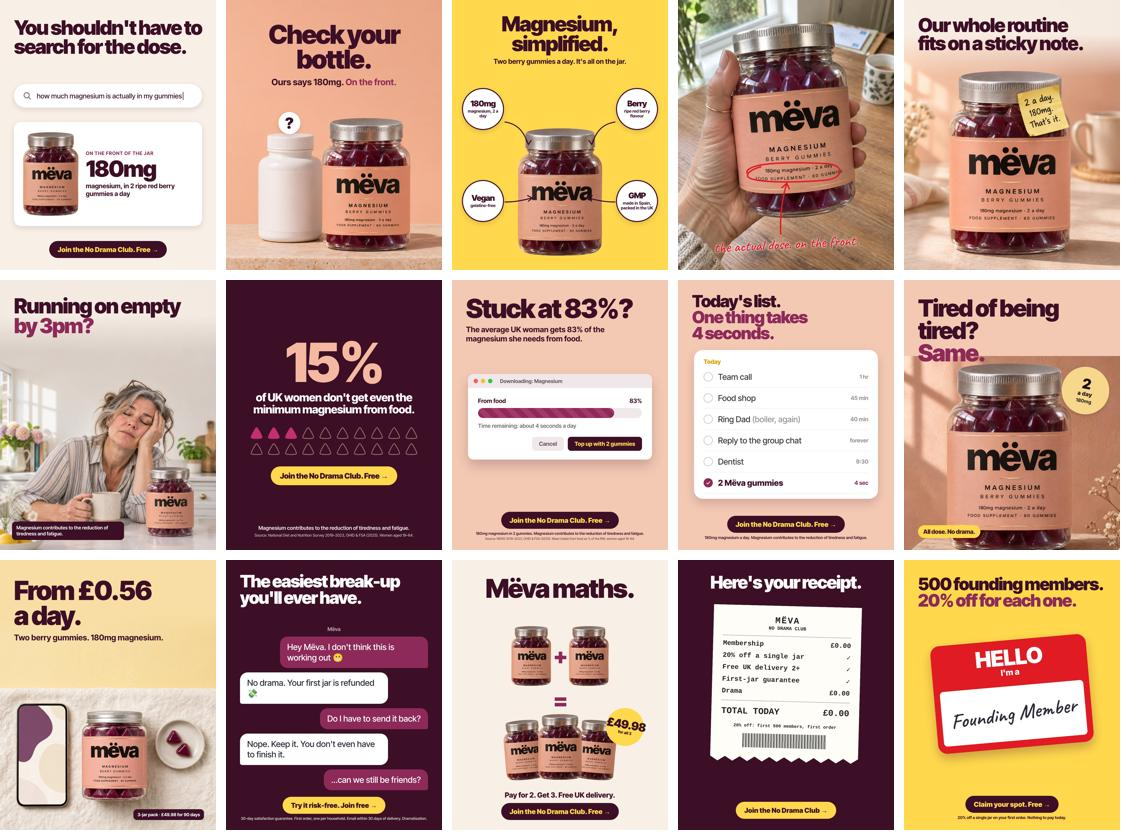
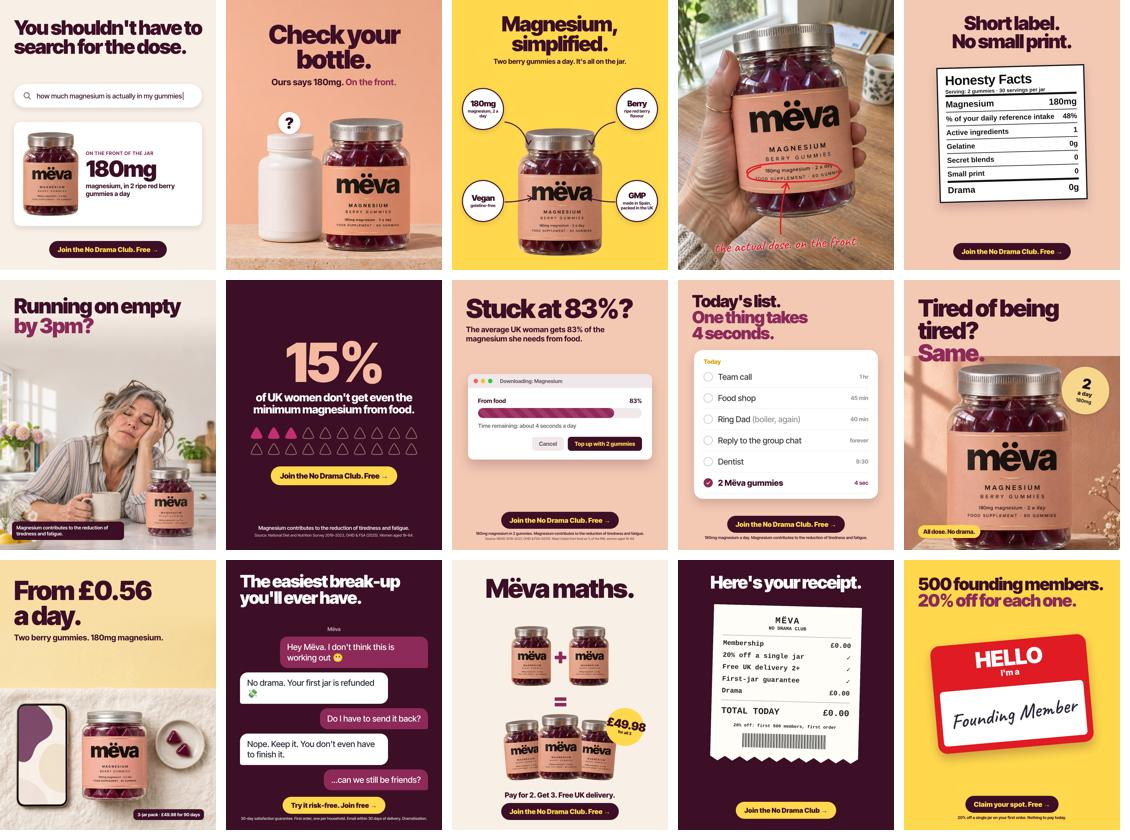
Mëva ads: A5 honesty facts label
Claude-Session: https://claude.ai/code/session_01WXdKv1YfkNwKWVtsSuXmEc

Changed region(s): [[0.7743, 0.0, 0.9912, 0.3405]]

diff --git a/meva/ads/campaign-r1-spec.md b/meva/ads/campaign-r1-spec.md
@@ -24,7 +24,7 @@
 - Images: feed JPGs. Their public URLs are in `2026-11-13/_image-urls.json`.
 - Link: `https://trymeva.co/products/meva-magnesium-gummies`
 - URL parameters (url_tags on every ad): `utm_source=meta&utm_medium=paid_social&utm_campaign={{campaign.name}}&utm_term={{adset.name}}&utm_content={{ad.name}}&placement={{placement}}`
-- Ad names: `A1_search-dose`, `A2_check-bottle`, `A3_simplified`, `A4_circled-dose`, `A5_sticky-note`, `B1_3pm-empty`, `B2_15pct`, `B3_stuck-at-83`, `B4_todo-4sec`, `B5_tired-same`, `C1_056-a-day`, `C2_breakup`, `C3_meva-maths`, `C4_receipt`, `C5_founding-member`
+- Ad names: `A1_search-dose`, `A2_check-bottle`, `A3_simplified`, `A4_circled-dose`, `A5_honesty-facts`, `B1_3pm-empty`, `B2_15pct`, `B3_stuck-at-83`, `B4_todo-4sec`, `B5_tired-same`, `C1_056-a-day`, `C2_breakup`, `C3_meva-maths`, `C4_receipt`, `C5_founding-member`
 - Headline: "Join free: 20% off your first jar"
 - Description: "Nothing to pay today"
 - CTA: SIGN_UP
